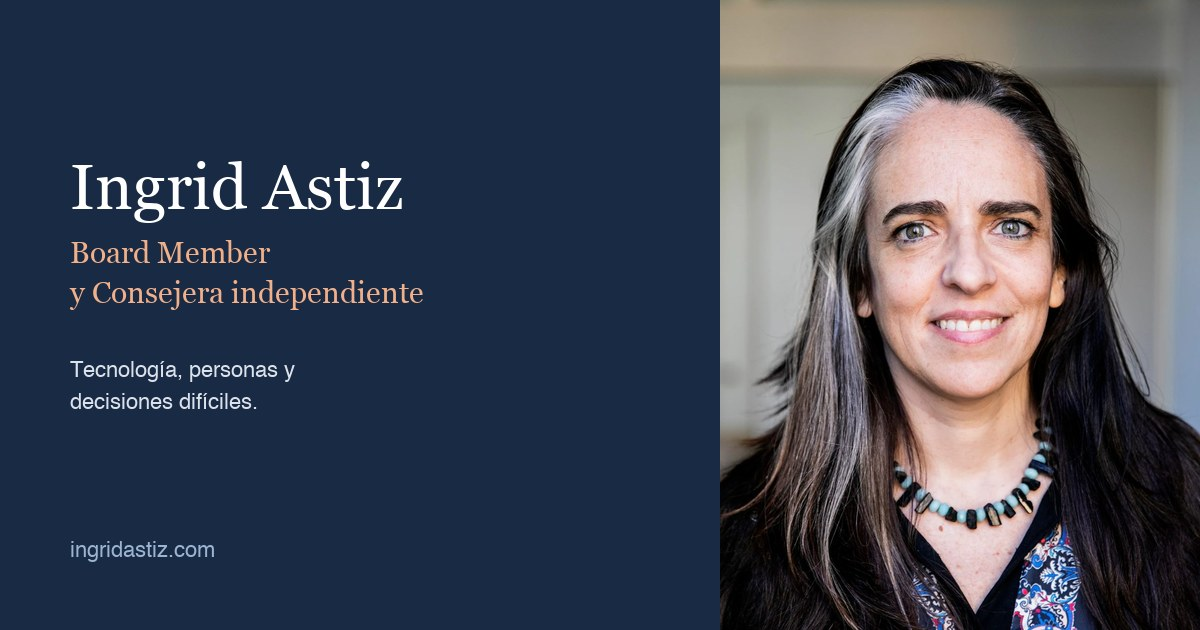
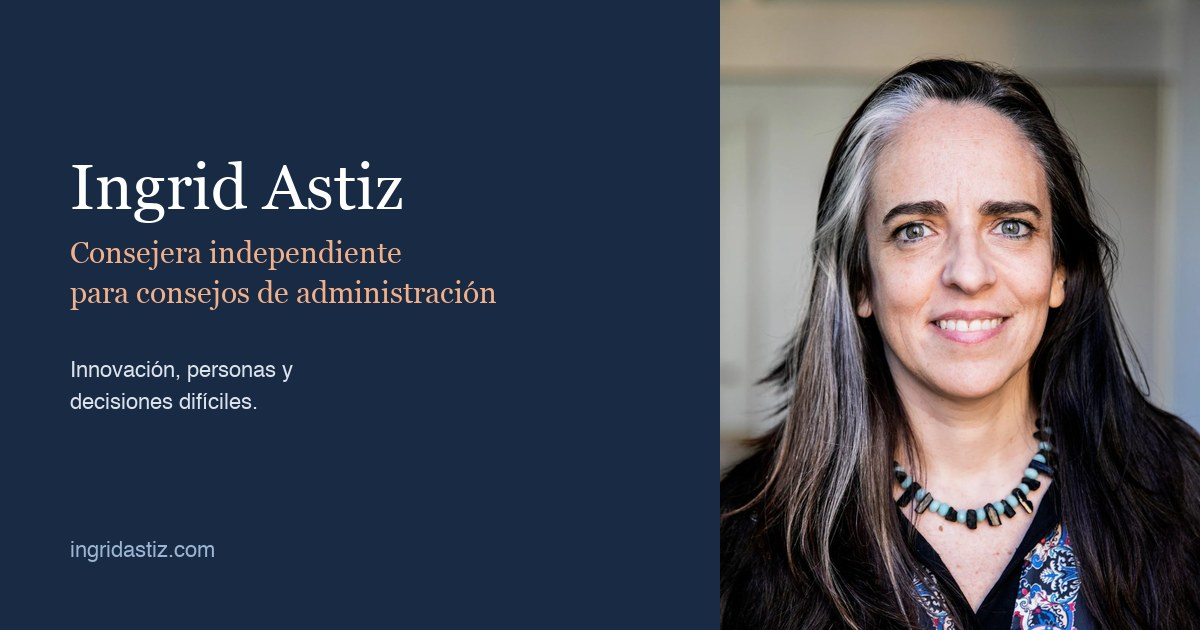
Castellano sin mezcla de inglés; imagen para redes en castellano

Changed region(s): [[0.0617, 0.4524, 0.4317, 0.4825], [0.0617, 0.3619, 0.3392, 0.4222], [0.0617, 0.573, 0.2467, 0.6032]]

diff --git a/index.html b/index.html
@@ -3,12 +3,12 @@
 <head>
 <meta charset="utf-8">
 <meta name="viewport" content="width=device-width, initial-scale=1">
-<title>Ingrid Astiz · Board Member y Consejera independiente</title>
+<title>Ingrid Astiz · Consejera independiente</title>
 <meta name="description" content="Consejera independiente para consejos de administración y consejos asesores de pymes y empresas familiares. Innovación, filosofía, agilidad y transformación con IA. Argentina y España.">
 <link rel="canonical" href="https://ingridastiz.com/">
 <meta property="og:type" content="website">
 <meta property="og:site_name" content="Ingrid Astiz">
-<meta property="og:title" content="Ingrid Astiz · Board Member y Consejera independiente">
+<meta property="og:title" content="Ingrid Astiz · Consejera independiente">
 <meta property="og:description" content="Una mirada independiente en el consejo: innovación, personas y decisiones difíciles.">
 <meta property="og:url" content="https://ingridastiz.com/">
 <meta property="og:image" content="https://ingridastiz.com/assets/og.jpg">
@@ -62,7 +62,7 @@
 
 <section class="hero" id="top">
   <div class="hero-text">
-    <p class="eyebrow"><span class="es">Consejera independiente · Board Member y Advisory Board</span><span class="en">Independent board member · Board and advisory roles</span></p>
+    <p class="eyebrow"><span class="es">Consejera independiente · Consejos de administración y consejos asesores</span><span class="en">Independent board member · Board and advisory roles</span></p>
     <h1>
       <span class="es">Una mirada independiente en el consejo: innovación, personas y decisiones difíciles.</span>
       <span class="en">An independent voice in the boardroom: innovation, people and hard decisions.</span>
@@ -170,7 +170,7 @@
       <article class="board">
         <p class="org">Grupo Oxean</p>
         <p class="role">
-          <span class="es">Consejera (Board Advisor) de esta agencia de comunicación interna y externa. Antes, Chief Innovation Officer (2020-2023).</span>
+          <span class="es">Consejera asesora de esta agencia de comunicación interna y externa. Antes, directora de innovación (2020-2023).</span>
           <span class="en">Board Advisor to this internal and external communication agency. Previously Chief Innovation Officer (2020-2023).</span>
         </p>
         <p class="when"><span class="es">Desde octubre 2025</span><span class="en">Since October 2025</span></p>
@@ -178,7 +178,7 @@
       <article class="board">
         <p class="org">INICIA</p>
         <p class="role">
-          <span class="es">Comunidad de emprendedores, Buenos Aires. Miembro del Board of Directors (2016-2017). Mentora y voluntaria (2010-2017). Voluntaria del año 2012.</span>
+          <span class="es">Comunidad de emprendedores, Buenos Aires. Miembro del Consejo de Administración (2016-2017). Mentora y voluntaria (2010-2017). Voluntaria del año 2012.</span>
           <span class="en">Entrepreneurs' community, Buenos Aires. Board of Directors member (2016-2017). Mentor and volunteer (2010-2017). Volunteer of the Year 2012.</span>
         </p>
         <p class="when">2016-2017</p>
@@ -199,9 +199,9 @@
       <li><span class="yr">2022 · 2025</span>
         <p class="what"><span class="es">Profesora en EADA Business School: liderazgo ético y gestión de la diversidad; metodologías ágiles.</span><span class="en">Professor at EADA Business School: ethical leadership and diversity management; agile methodologies.</span></p></li>
       <li><span class="yr">2021 · 2025</span>
-        <p class="what"><span class="es">Speaker en Vistage Spain para CEOs: agilidad estratégica y toma de decisiones.</span><span class="en">Speaker at Vistage Spain for CEOs: strategic agility and decision-making.</span></p></li>
+        <p class="what"><span class="es">Oradora en Vistage Spain para presidentes y directores generales: agilidad estratégica y toma de decisiones.</span><span class="en">Speaker at Vistage Spain for CEOs: strategic agility and decision-making.</span></p></li>
       <li><span class="yr">2020 · 2023</span>
-        <p class="what"><span class="es">Chief Innovation Officer en Oxean.</span><span class="en">Chief Innovation Officer at Oxean.</span></p></li>
+        <p class="what"><span class="es">Directora de innovación en Oxean.</span><span class="en">Chief Innovation Officer at Oxean.</span></p></li>
       <li><span class="yr">2018</span>
         <p class="what"><span class="es">Mudanza a Barcelona. Fuerza Tres pasa a llamarse Wise Work.</span><span class="en">Move to Barcelona. Fuerza Tres becomes Wise Work.</span></p></li>
       <li><span class="yr">2010</span>

diff --git a/script.js b/script.js
@@ -2,7 +2,7 @@
 (function () {
   var KEY = "ingridastiz-lang";
   var TITLES = {
-    es: "Ingrid Astiz · Board Member y Consejera independiente",
+    es: "Ingrid Astiz · Consejera independiente",
     en: "Ingrid Astiz · Independent Board Member"
   };
   function apply(lang) {

diff --git a/docs/make-og.py b/docs/make-og.py
@@ -21,9 +21,9 @@ def font(name, size):
 f1, f2, f3 = font("Georgia.ttf", 64), font("Georgia.ttf", 30), font("Helvetica.ttc", 22)
 x = 70
 d.text((x, 150), "Ingrid Astiz", font=f1, fill=(255, 255, 255))
-d.text((x, 235), "Board Member", font=f2, fill=(241, 176, 138))
-d.text((x, 275), "y Consejera independiente", font=f2, fill=(241, 176, 138))
-d.text((x, 360), "Tecnología, personas y", font=f3, fill=(220, 226, 235))
+d.text((x, 235), "Consejera independiente", font=f2, fill=(241, 176, 138))
+d.text((x, 275), "para consejos de administración", font=f2, fill=(241, 176, 138))
+d.text((x, 360), "Innovación, personas y", font=f3, fill=(220, 226, 235))
 d.text((x, 392), "decisiones difíciles.", font=f3, fill=(220, 226, 235))
 d.text((x, 540), "ingridastiz.com", font=f3, fill=(155, 180, 210))
 im.save("assets/og.jpg", quality=88)

diff --git a/docs/COPY.md b/docs/COPY.md
@@ -1,6 +1,6 @@
 # COPY de ingridastiz.com (Design Specs + Copy)
 
-Versión 3, 29/09/2026 (cambios pedidos por Ingrid tras la primera publicación). Redactado por Claude a partir de `fuente-linkedin-2026-09-29.md`.
+Versión 4, 29/09/2026 (cambios pedidos por Ingrid tras la primera publicación). Redactado por Claude a partir de `fuente-linkedin-2026-09-29.md`.
 Todo dato (fechas, empresas, cargos, títulos) sale de LinkedIn. Las frases marcadas
 con [NUEVO] son redacción creativa que no está en ninguna fuente: revisar con más cuidado.
 
@@ -39,7 +39,7 @@ Marca: **Ingrid Astiz** (con punto en color de acento, como "Ingrid." en ingrid.
 
 ## HERO
 
-**Eyebrow ES:** Consejera independiente · Board Member y Advisory Board
+**Eyebrow ES:** Consejera independiente · Consejos de administración y consejos asesores
 **Eyebrow EN:** Independent board member · Board and advisory roles
 
 **H1 ES [NUEVO]:** Una mirada independiente en el consejo: innovación, personas y decisiones difíciles.
@@ -109,7 +109,7 @@ Cinco bloques. Título corto y dos o tres frases.
 |---|---|---|---|
 | Barcelona Montessori School | Miembro del consejo asesor | Advisory Board Member | Desde octubre 2025 / Since October 2025 |
 | Grupo Oxean, agencia de comunicación interna y externa | Consejera (Board Advisor). Antes, Chief Innovation Officer (2020-2023) | Board Advisor. Previously Chief Innovation Officer (2020-2023) | Desde octubre 2025 / Since October 2025 |
-| INICIA, comunidad de emprendedores, Buenos Aires | Miembro del Board of Directors (2016-2017). Mentora y voluntaria (2010-2017). Voluntaria del año 2012 | Board of Directors member (2016-2017). Mentor and volunteer (2010-2017). Volunteer of the Year 2012 | 2016-2017 |
+| INICIA, comunidad de emprendedores, Buenos Aires | Miembro del Consejo de Administración (2016-2017). Mentora y voluntaria (2010-2017). Voluntaria del año 2012 | Board of Directors member (2016-2017). Mentor and volunteer (2010-2017). Volunteer of the Year 2012 | 2016-2017 |
 
 ---
 
@@ -185,3 +185,7 @@ Se adaptan los tres textos de ingrid.ar (aviso legal, privacidad, cookies), con 
 - Se quita WhatsApp de las menciones a plataformas de terceros; queda LinkedIn.
 - Mail de privacidad: privacidad@ingrid.ar (ya existe con el comodín de ImprovMX).
 - Titular: Ingrid Isabel Astiz. Residencia: España.
+
+## Regla de idioma (v4)
+
+La versión en castellano no mezcla inglés: solo quedan nombres propios de instituciones y eventos (Barcelona Montessori School, EADA Business School, Vistage Spain). La imagen para redes y el título de la pestaña están en castellano porque el sitio arranca en castellano.
